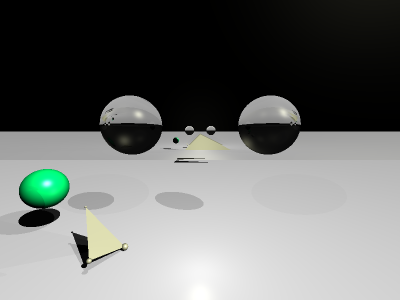
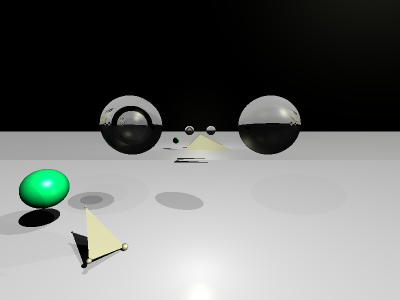
grumble:

Changed region(s): [[0.27, 0.33, 0.39, 0.48], [0.18, 0.63, 0.27, 0.69], [0.45, 0.42, 0.48, 0.45]]

diff --git a/main.cpp b/main.cpp
@@ -82,6 +82,14 @@ int main(int argc, char **argv)
     magic2.refractive_index = 1.333;
     magic2.reflectiveness = 0.05;
 
+    object &magic3 = w.add_object(std::make_shared<sphere>(vector3df(-700.0, 250.0, -900.0), 150.0));
+    magic3.diffuse = vector3df::zero;
+    magic3.specular = vector3df::one * 0.2;
+    magic3.shininess = 32.0;
+    magic3.refractiveness = vector3df::one * 0.9; // vector3df(0.0, 0.5, 1.0) * 0.9;
+    magic3.refractive_index = 1.5;
+    magic3.reflectiveness = 0.05;
+
     w.add_object(std::make_shared<sphere>(vector3df(-1600.0, -400.0, -900.0), 200.0));
     object &small1 = w.add_object(std::make_shared<sphere>(vector3df(-1000.0, -500.0, -600.0), 10.0));
     object &small2 = w.add_object(std::make_shared<sphere>(vector3df(-850.0, -850.0, -400.0), 20.0));

diff --git a/camera.cpp b/camera.cpp
@@ -47,7 +47,7 @@ vector3df camera::ray_trace(const ray &r, const vector3df &contribution) const
 
     if (ir.obj.diffuse.length2() > eps2)
     {
-        std::uniform_real_distribution<> dist(-1.0, 1.0);
+        /*std::uniform_real_distribution<> dist(-1.0, 1.0);
         vector3df k = ir.result.n;
         vector3df i = k.cross(vector3df(dist(engine), dist(engine), dist(engine))).normalize();
         vector3df j = k.cross(i);
@@ -62,7 +62,7 @@ vector3df camera::ray_trace(const ray &r, const vector3df &contribution) const
             Id2 = Id2 + ray_trace(ray(ir.result.p, v, r.refractive_index),
                                   vector3df::one * (100.0 * eps)).modulate(coeff);
         }
-        Id = Id + Id2;
+        Id = Id + Id2;*/
     }
 
 
